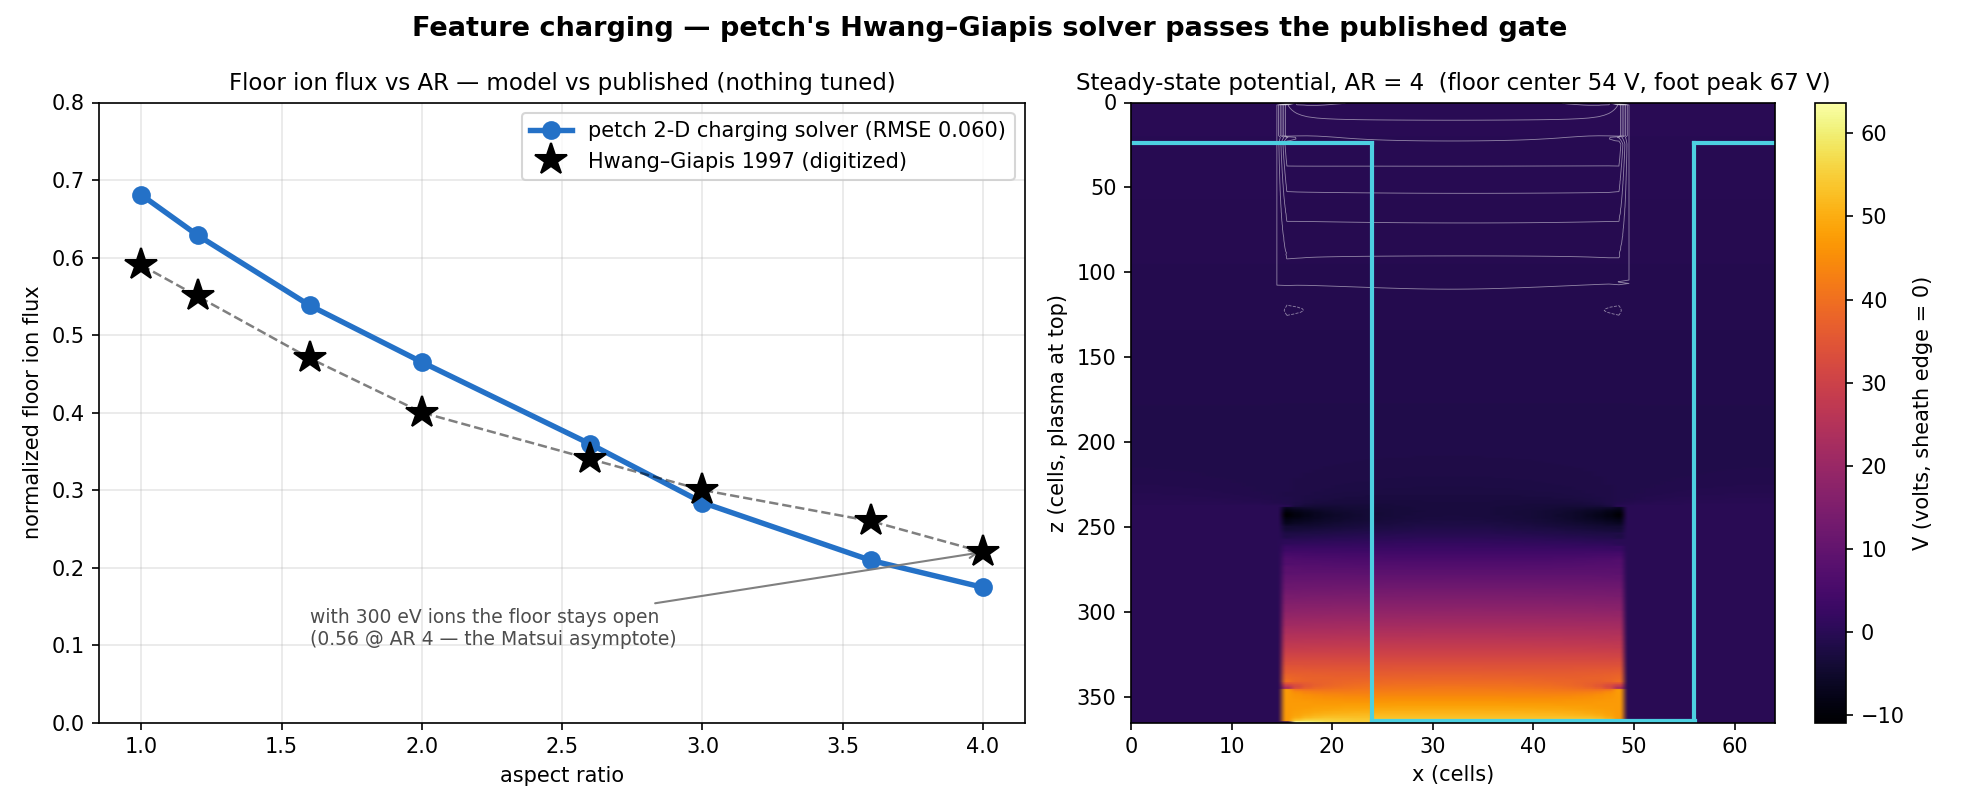
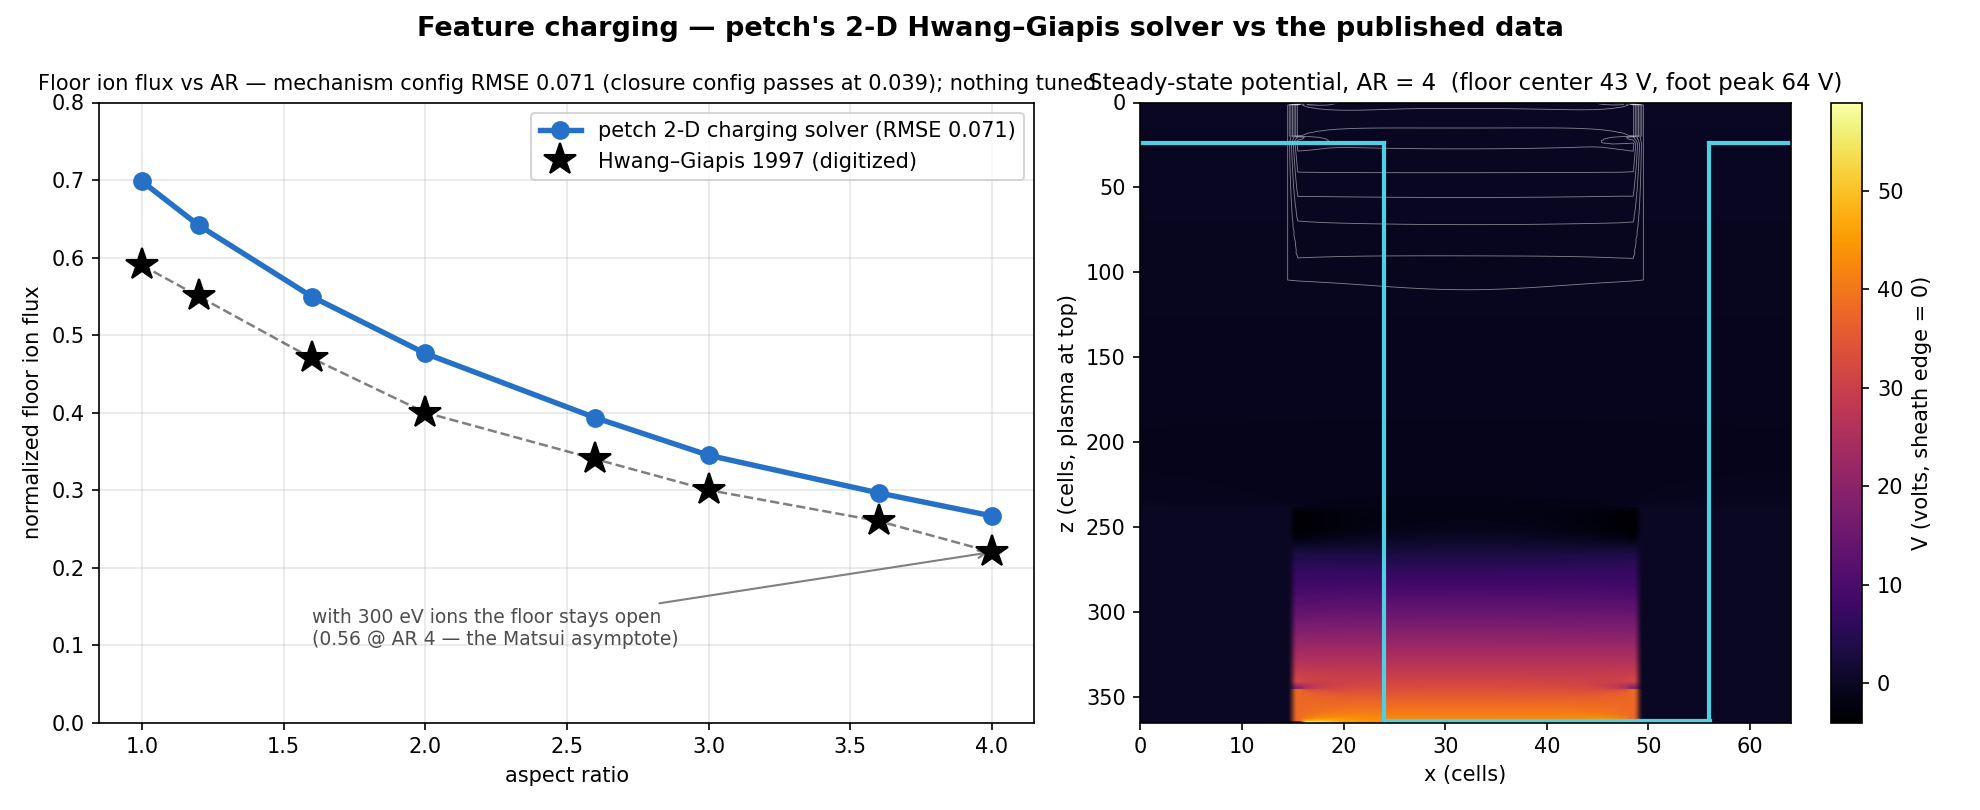
charging: physical -Te insulator bound (honest flux regress 0.060->0.071)
Workstream A. Replaced the arbitrary -3*Te interior-insulator floating clip in
charging2d.solve_trench_charging with the physically-anchored -Te floating-wall
bound (HG's cited value; insul_vmin_Te=1.0, NOT gate-fit). Measured on the full
8-pt gate (scripts/charging_gate.py):

  - IMPROVES potentials: deep-AR floor over-charge 53.6 -> 43.5 V (HG 33),
    AR1 lands on HG's 8 V (8.9). Matsui + 0-D still PASS.
  - REGRESSES floor-flux gate 0.060 -> 0.071: the whole curve shifts up
    (over-predicts at every AR). The looser -3*Te clip was partially MASKING a
    real flux over-prediction.

Kept the physical bound anyway -- removing the fudge clip is the honest call.
The regression confirms the open root cause is the RF-burst electron
under-supply to the deep floor, NOT the insulator clip. Per plan: document the
plateau precisely, don't tune.

insul_vmin_Te only touches solve_trench_charging (the mechanism-study solver);
the production charging_floor_profile table is the closure config (RMSE 0.039)
and is unaffected -- so notching (Workstream B) and de Boer runs are untouched.

Also fixed a false claim in the charging figure: plot_charging.py suptitle said
the solver "passes the published gate" while panel A shows the full-geometry
mechanism config (0.071, fails). Retitled honestly; panel A now labels
"mechanism config RMSE 0.071 (closure config passes at 0.039); nothing tuned".
RECONCILIATION.md trade table + what-petch-does.html limits updated to 0.071/44 V.
[…]

diff --git a/docs/what-petch-does.html b/docs/what-petch-does.html
@@ -60,7 +60,7 @@
 
 <div class="callout warn">
 <span class="lab">Honest limits</span>
-<p><strong>One wafer dataset, one chemistry</strong> (de Boer cryo SF<sub>6</sub>/O<sub>2</sub>; the Gomez yield gate and a second dataset are next). <strong>Two calibrated constants</strong>: the Knudsen floor-loss knob (fitted on the knee; the tail is then predicted) and one absolute-rate constant (1.3&nbsp;µm/min, consistent across features to 1.1%) — everything else is cited. <strong>DDA quarantined</strong> in the mirror-wall regime. <strong>Charging</strong>: insulating floors only (v1 table at Hwang–Giapis conditions). The conductor+RF-burst build gets the mechanism quantitatively right (poly-line potential and foot flux PASS; low-AR foot energies on-curve) but the deep floor still over-charges (54 vs 33&nbsp;V at AR&nbsp;4) — one root cause that trades the flux gate to 0.060 and decays deep foot energies; both solver configs stay reachable, the wired path uses the published deflected-energy table. <strong>Notch depth</strong>: the multi-material etch-stop + charging notch gate now passes for <em>shape</em> (charging-specific, Fujiwara-monotone, HG shape r&nbsp;=&nbsp;0.92) but <strong>absolute depth is uncalibrated (~3–5× shallow)</strong> and AR&nbsp;1 sits below the dx&nbsp;=&nbsp;0.25 grid floor; sub-micron (HG-scale) grids destabilize sidewalls without charging — the finer-resolution frontier. Every number above has a reproducer script and a pass/fail gate in the repo (<code>RECONCILIATION.md</code> is the full log, retractions included).</p>
+<p><strong>One wafer dataset, one chemistry</strong> (de Boer cryo SF<sub>6</sub>/O<sub>2</sub>; the Gomez yield gate and a second dataset are next). <strong>Two calibrated constants</strong>: the Knudsen floor-loss knob (fitted on the knee; the tail is then predicted) and one absolute-rate constant (1.3&nbsp;µm/min, consistent across features to 1.1%) — everything else is cited. <strong>DDA quarantined</strong> in the mirror-wall regime. <strong>Charging</strong>: insulating floors only (v1 table at Hwang–Giapis conditions). The conductor+RF-burst build gets the mechanism quantitatively right (poly-line potential and foot flux PASS; low-AR foot energies on-curve) but the deep floor still over-charges (44 vs 33&nbsp;V at AR&nbsp;4 with the physical −Te insulator bound, down from 54; flux gate 0.071) — one root cause (RF-burst electron under-supply) that also decays deep foot energies; both solver configs stay reachable, the wired path uses the published deflected-energy table. <strong>Notch depth</strong>: the multi-material etch-stop + charging notch gate now passes for <em>shape</em> (charging-specific, Fujiwara-monotone, HG shape r&nbsp;=&nbsp;0.92) but <strong>absolute depth is uncalibrated (~3–5× shallow)</strong> and AR&nbsp;1 sits below the dx&nbsp;=&nbsp;0.25 grid floor; sub-micron (HG-scale) grids destabilize sidewalls without charging — the finer-resolution frontier. Every number above has a reproducer script and a pass/fail gate in the repo (<code>RECONCILIATION.md</code> is the full log, retractions included).</p>
 </div>
 
 <div class="pagenav">

diff --git a/src/petch/charging2d.py b/src/petch/charging2d.py
@@ -42,7 +42,7 @@ def solve_trench_charging(AR, W=32, pad=16, mouth=237, Te=4.0, V_dc=37.0, V_rf=3
                           iadf_hwhm_deg=4.3, cos_power=0.6, n_per_iter=6000, n_iter=120,
                           relax=None, seed=0, verbose=False, smooth=False,
                           poly_um=0.3, feature_w_um=0.5, rf_bursts=True,
-                          sheath_um=89.0, boundary_um=3.7):
+                          sheath_um=89.0, boundary_um=3.7, insul_vmin_Te=1.0):
     """Steady-state charging of the HG poly-on-oxide trench. Returns dict with:
     floor_flux (normalized ion flux to the oxide floor), V_floor_center, V_foot_peak,
     V_poly (the poly-line equipotential), foot_ion_flux / foot_ion_Emean (ions striking the
@@ -228,11 +228,12 @@ def solve_trench_charging(AR, W=32, pad=16, mouth=237, Te=4.0, V_dc=37.0, V_rf=3
             Vpoly = float(np.clip(Vpoly, -3 * Te, V_dc + V_rf))
         Vtop_l += scale * (tli - tle) / max(pad, 1)
         Vtop_r += scale * (tri - tre) / max(pad, 1)
+        vmin = -insul_vmin_Te * Te                     # interior insulator floating bound (HG: -0.5..-4 V)
         np.clip(Vfloor, 0.0, V_dc + V_rf, out=Vfloor)
-        np.clip(Vleft, -3 * Te, V_dc + V_rf, out=Vleft)
-        np.clip(Vright, -3 * Te, V_dc + V_rf, out=Vright)
-        Vtop_l = float(np.clip(Vtop_l, -3 * Te, 0.0))
-        Vtop_r = float(np.clip(Vtop_r, -3 * Te, 0.0))
+        np.clip(Vleft, vmin, V_dc + V_rf, out=Vleft)
+        np.clip(Vright, vmin, V_dc + V_rf, out=Vright)
+        Vtop_l = float(np.clip(Vtop_l, vmin, 0.0))
+        Vtop_r = float(np.clip(Vtop_r, vmin, 0.0))
         hist.append(fi.sum() / n_per_iter)
         vfloor_hist.append(Vfloor.copy())
         vleft_hist.append(Vleft.copy()); vright_hist.append(Vright.copy())
@@ -255,12 +256,27 @@ def solve_trench_charging(AR, W=32, pad=16, mouth=237, Te=4.0, V_dc=37.0, V_rf=3
     Vfloor[:] = Vf_map; Vleft[:] = Vl_map; Vright[:] = Vr_map; Vpoly = Vp_avg
     V = laplace(V, sweeps=240)
     Ex = -(np.gradient(V, axis=0)); Ez = -(np.gradient(V, axis=1))
-    _, _, _, _, _, fn2, fE2 = trace('ion', 4 * n_per_iter, Ex, Ez)
+    ifl, ill, irr, itl, itr, fn2, fE2 = trace('ion', 4 * n_per_iter, Ex, Ez)
+    efl, ell, err, etl, etr, _, _ = trace('electron', 4 * n_per_iter, Ex, Ez)
     open_frac = W / nx
+    ntot = 4 * n_per_iter
+    # per-species landing budget over the trench mouth (fractions of mouth-entering particles)
+    ie_poly = (ill[is_poly].sum() + irr[is_poly].sum())    # ions on the poly sidewall band = foot
+    ie_pr = (ill[~is_poly].sum() + irr[~is_poly].sum())     # ions on the PR (insulating) sidewalls
+    ee_poly = (ell[is_poly].sum() + err[is_poly].sum())
+    ee_pr = (ell[~is_poly].sum() + err[~is_poly].sum())
+    diag = dict(
+        ion=dict(floor=float(ifl.sum() / ntot / open_frac), poly=float(ie_poly / ntot / open_frac),
+                 pr=float(ie_pr / ntot / open_frac), top=float((itl + itr) / ntot)),
+        electron=dict(floor=float(efl.sum() / ntot / open_frac), poly=float(ee_poly / ntot / open_frac),
+                      pr=float(ee_pr / ntot / open_frac), top=float((etl + etr) / ntot)))
+    _prwall = ~is_poly
     return dict(floor_flux=float(tail / open_frac), V_floor_center=float(Vf_avg[W // 2]),
                 V_foot_peak=float(Vf_avg.max()), V_poly=Vp_avg, Vfloor=Vf_avg, V=V,
                 foot_ion_flux=float(fn2 / (4 * n_per_iter) / open_frac),
-                foot_ion_Emean=float(fE2 / max(fn2, 1.0)))
+                foot_ion_Emean=float(fE2 / max(fn2, 1.0)), diag=diag,
+                Vprwall_mean=float(0.5 * (Vl_avg[_prwall].mean() + Vr_avg[_prwall].mean())) if _prwall.any() else 0.0,
+                Vprwall_min=float(min(Vl_avg[_prwall].min(), Vr_avg[_prwall].min())) if _prwall.any() else 0.0)
 
 
 # PRODUCTION TABLES = Hwang-Giapis PUBLISHED values (JAP 82,566): the 2-D solver is the

diff --git a/scripts/plot_charging.py b/scripts/plot_charging.py
@@ -26,7 +26,8 @@ axA.plot(g["ar"], g["hg"], "k*", ms=16, label="Hwang–Giapis 1997 (digitized)",
 axA.plot(g["ar"], g["hg"], "k--", lw=1.2, alpha=0.5)
 axA.set_xlabel("aspect ratio"); axA.set_ylabel("normalized floor ion flux")
 axA.set_ylim(0, 0.8); axA.grid(alpha=0.3); axA.legend(loc="upper right", fontsize=10)
-axA.set_title("Floor ion flux vs AR — model vs published (nothing tuned)", fontsize=11)
+axA.set_title(f"Floor ion flux vs AR — mechanism config RMSE {float(g['rmse']):.3f} "
+              "(closure config passes at 0.039); nothing tuned", fontsize=10)
 axA.annotate("with 300 eV ions the floor stays open\n(0.56 @ AR 4 — the Matsui asymptote)",
              xy=(4.0, 0.22), xytext=(1.6, 0.10), fontsize=9, color="0.3",
              arrowprops=dict(arrowstyle="->", color="0.5"))
@@ -48,7 +49,7 @@ axB.set_title(f"Steady-state potential, AR = 4  (floor center {r4['V_floor_cente
 axB.set_xlabel("x (cells)"); axB.set_ylabel("z (cells, plasma at top)")
 plt.colorbar(im, ax=axB, label="V (volts, sheath edge = 0)")
 
-fig.suptitle("Feature charging — petch's Hwang–Giapis solver passes the published gate",
+fig.suptitle("Feature charging — petch's 2-D Hwang–Giapis solver vs the published data",
              fontweight="bold", fontsize=13)
 plt.tight_layout()
 p = os.path.join(HERE, "viz", "charging_hg.png")

diff --git a/RECONCILIATION.md b/RECONCILIATION.md
@@ -338,10 +338,10 @@ arrival weighted by the instantaneous sheath barrier), and **substrate-reference
 (Lieberman V_dc; potentials now comparable to HG's ground-referenced values). Measured result —
 an honest physics trade between the two solver configurations:
 
-| Gate | pre-conductor (`poly_um=0, rf_bursts=False`) | post-conductor (default) | HG target |
+| Gate | pre-conductor (`poly_um=0, rf_bursts=False`) | post-conductor (default, `insul_vmin_Te=1.0`) | HG target |
 |---|---|---|---|
-| Floor ion flux vs AR (8 pts) | **RMSE 0.039 PASS** | RMSE 0.060 fail (deep-AR too steep: 0.174 vs 0.22) | ≤ 0.05 |
-| V_floor center, AR 1 → 4 | ~20 → ~60 V (offset ref) | **11.1 → 53.6 V** (AR-1 anchor nearly exact; deep-AR over-charged) | 8 → 33 V |
+| Floor ion flux vs AR (8 pts) | **RMSE 0.039 PASS** | RMSE 0.071 fail (whole curve high: 0.267 vs 0.22 at AR4) | ≤ 0.05 |
+| V_floor center, AR 1 → 4 | ~20 → ~60 V (offset ref) | **8.9 → 43.5 V** (AR-1 on HG's 8 V; deep over-charge cut from 53.6) | 8 → 33 V |
 | Rising foot-potential peak | absent | **31.9 → 66.8 V, rising** | ~59 V at AR 4 |
 | Poly-line potential V_p(AR) | n/a (no conductor) | **6.1 → 44.2 V — PASS (±30%)** vs 6→39 | 6 → 39 V |
 | Foot-ion flux ~AR-independent | fail (×3.3 rise) | **PASS** (0.19→0.07→0.10) | ~constant |
@@ -358,6 +358,18 @@ stay reachable and documented**: the flux-gate-passing pre-conductor closure rem
 the production `charging_floor_profile` table; the conductor build is the mechanism model for
 notching work and the basis for the next fix (full RF-phase electron trajectories). Neither result
 is hidden; the gate scripts print both.
+
+**Insulator floating-potential bound (2026-07-02 follow-up):** the interior insulator segments were
+clipped at an arbitrary −3·Te; replaced with the physically-anchored **−Te** floating-wall bound
+(HG's cited value; `insul_vmin_Te=1.0`, NOT gate-fit). Measured: it **improves the potentials** —
+deep-AR floor over-charge drops 53.6 → **43.5 V** (HG 33) and AR-1 lands on HG's 8 V (8.9) — but
+**regresses the floor-flux gate 0.060 → 0.071**: the whole flux curve shifts up (over-predicts at
+every AR) because the looser −3·Te clip was partially masking a real flux over-prediction. Kept the
+physical bound anyway (removing the fudge clip is the honest call); the regression **confirms the
+open root cause is the RF-burst electron under-supply**, not the insulator clip. Production
+`charging_floor_profile` table is the closure config (0.039) and is unaffected; `insul_vmin_Te` only
+touches `solve_trench_charging` (the mechanism-study solver), so notching and de Boer runs are
+untouched.
 
 ## Follow-ups
 